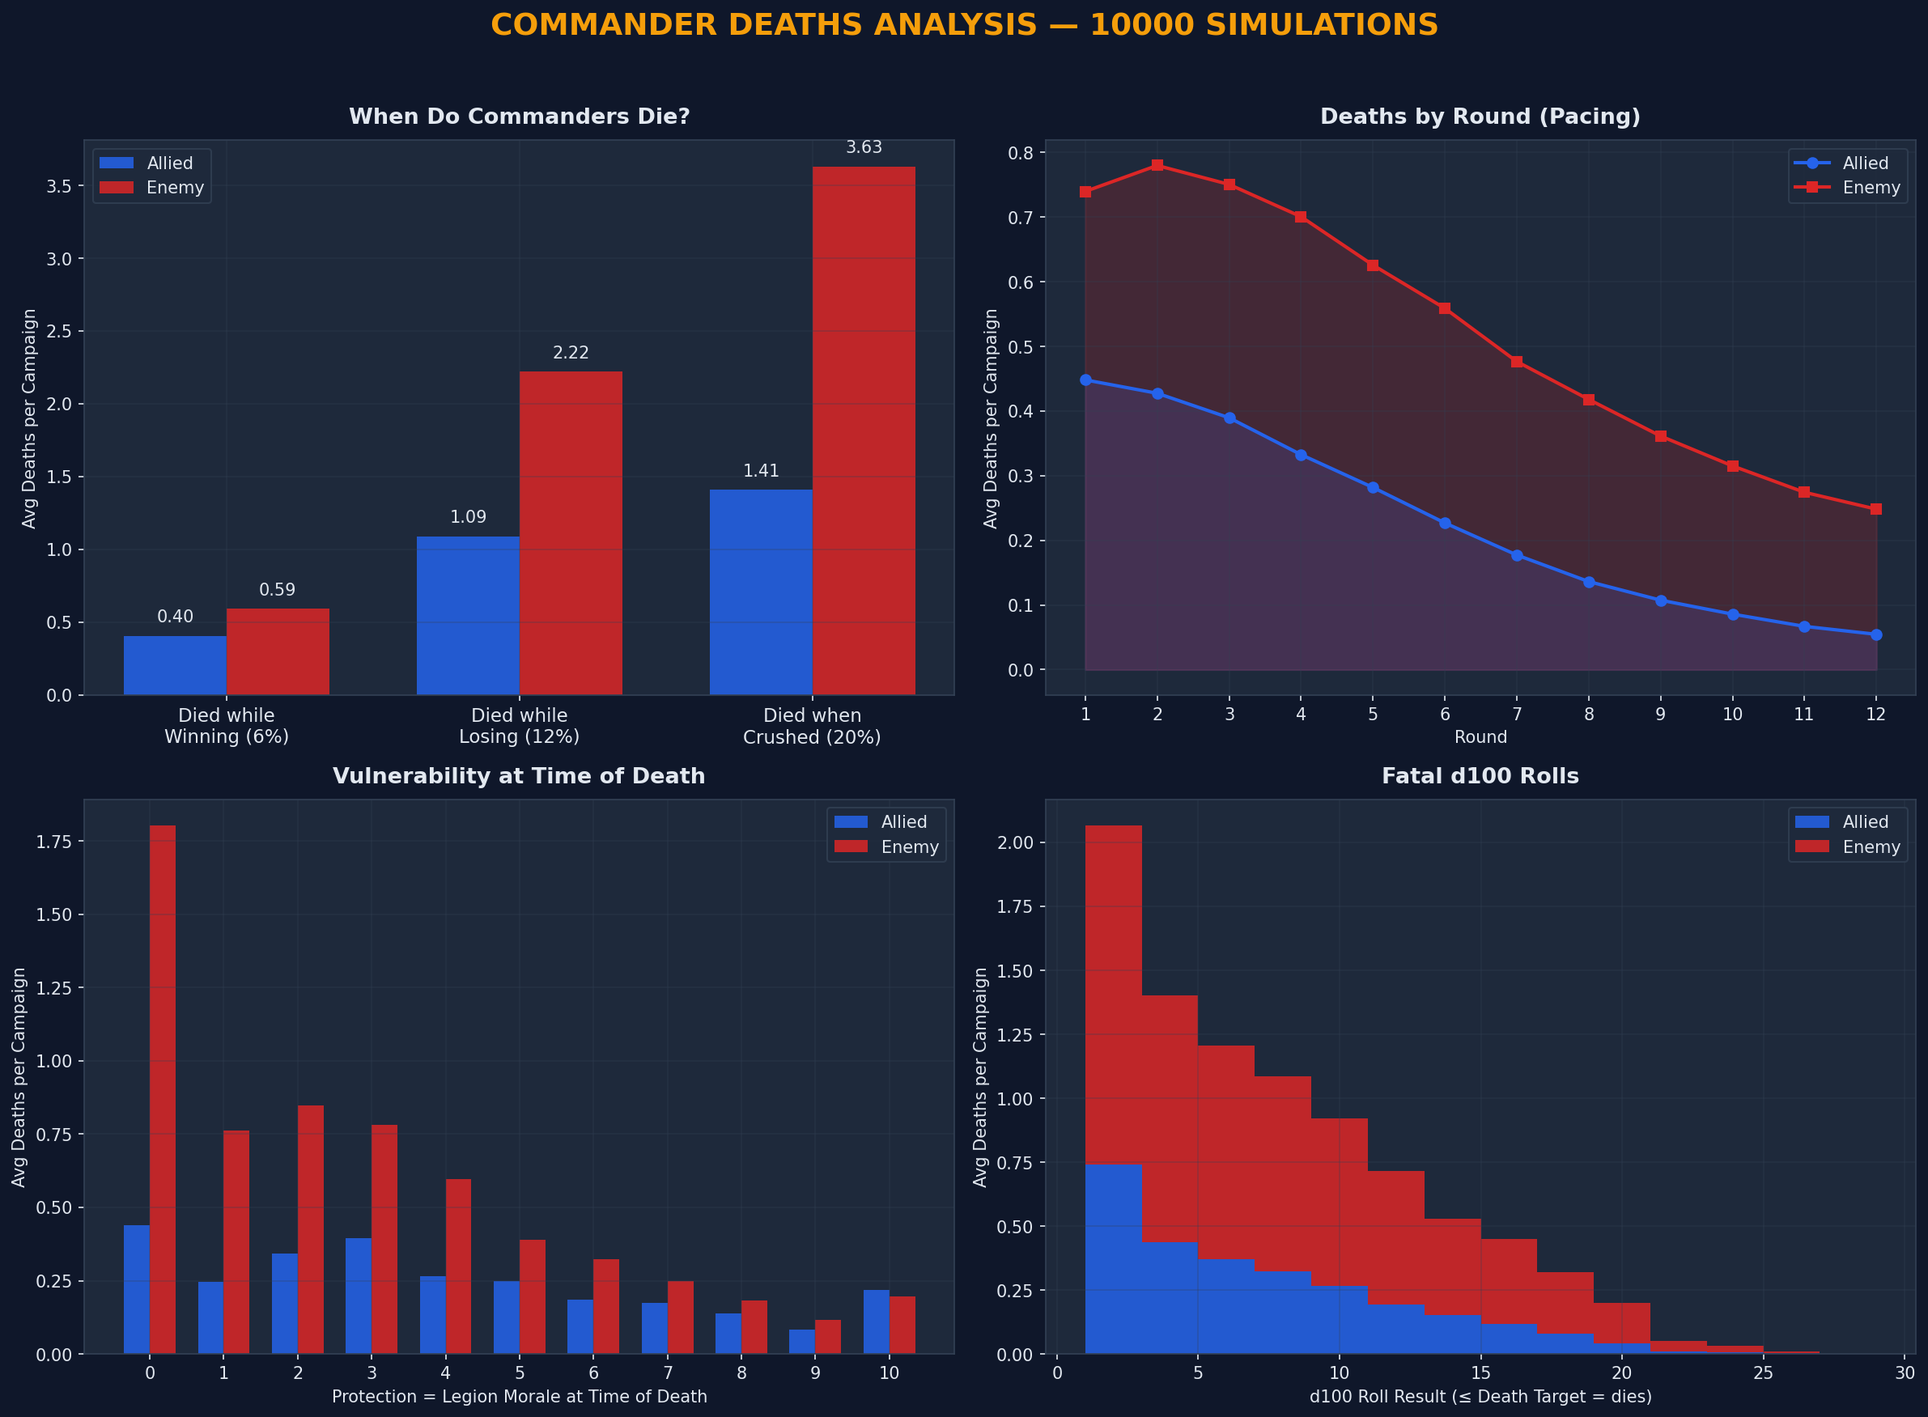
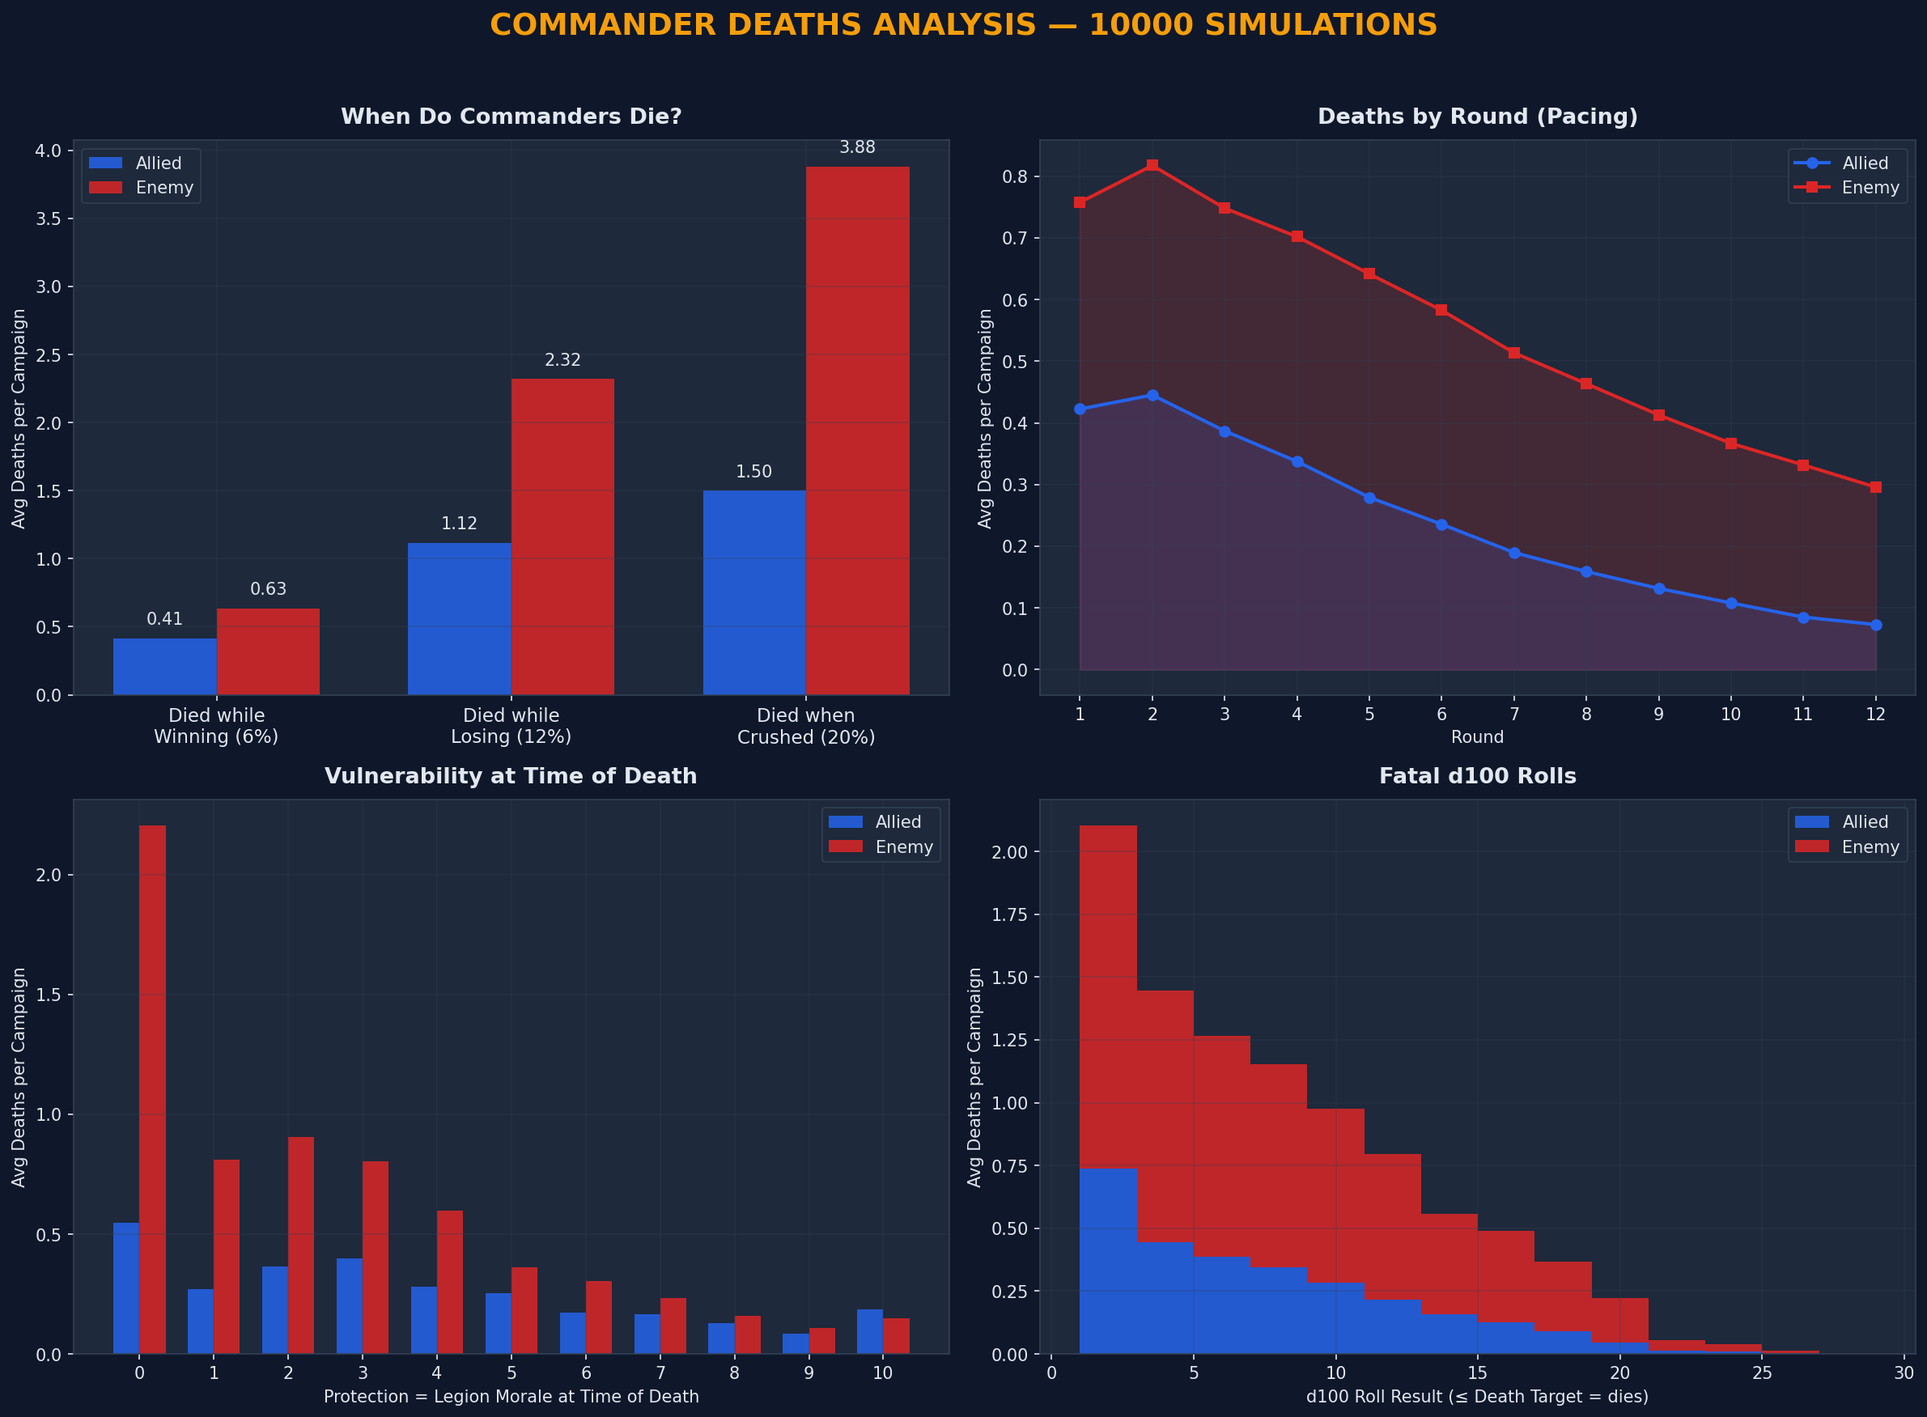
Update 1.0

diff --git a/battle.html b/battle.html
@@ -1200,8 +1200,8 @@
                                 <div class="tag-action"><span class="badge badge-passive">Passive</span></div>
                             </div>
                             <div class="tag-effect">
-                                This legion gains <strong>+2 to Hope checks</strong>. Allied legions in adjacent
-                                sections gain <strong>+1 to Hope checks</strong>.
+                                This legion gains <strong>+3 to Hope checks</strong>. Allied legions in adjacent
+                                sections gain <strong>+2 to Hope checks</strong>.
                             </div>
                         </div>
 
@@ -1558,9 +1558,9 @@ flowchart LR
     M["🧠 PHASE 1\nThe Maneuver\n1d20 + Wit\nWinner chooses 1 benefit"]
     C["🔥 PHASE 2\nThe Charge\n1d20 + Morale\nWinner gains +1 to Clash"]
     CL["⚔ PHASE 3\nThe Clash\n1d20 + Vitality"]
-    V["🏆 TALLY\nBattle Score\nSum of differentials\nPositive = you win\nTie - Vitality sudden death"]
+    V["🏆 TALLY\nBattle Score\nSum of differentials\nPositive = you win\nTie - Clash winner wins\nor Vitality sudden death"]
     M -->|"+1d4 Charge bonus\nor other benefit"| C
-    C -->|"+1 to Clash roll\nfor Charge winner"| CL
+    C -->|"+1d2 to Clash roll\nfor Charge winner"| CL
     CL --> V
     style M fill:#1a2a3a,stroke:#3a7ab5,color:#90c0e8
     style C fill:#3a2a10,stroke:#b58030,color:#e8c070
@@ -1582,7 +1582,10 @@ flowchart LR
                         </div>
                         <div class="benefit-card">
                             <div class="name">Defensive Footing</div>
-                            <div class="desc"><strong>+1d2</strong> to your Clash roll (Phase 3)</div>
+                            <div class="desc">
+                                <strong>+1d4</strong> to your Clash roll (Phase 3) and <strong>+2</strong> to this
+                                legion's Recovery check
+                            </div>
                         </div>
                         <div class="benefit-card">
                             <div class="name">Disrupted Formation</div>
@@ -1600,7 +1603,7 @@ flowchart LR
                     <h3>Phase 2: The Charge (Morale)</h3>
                     <p>
                         Both sides roll 1d20 + Morale. The differential is added to the Battle Score. The Charge winner
-                        (positive differential) gains +1 to their Clash roll. If tied, no cascade bonus.
+                        (positive differential) gains +1d2 to their Clash roll. If tied, no cascade bonus.
                     </p>
 
                     <h3>Phase 3: The Clash (Vitality)</h3>
@@ -1615,9 +1618,10 @@ flowchart LR
 
                     <div class="callout callout-gold">
                         <strong>Tie-Breaker</strong>
-                        If the Battle Score is exactly 0, a
-                        <strong>sudden-death contested Vitality roll</strong> breaks the tie. If that also ties, reroll
-                        until one side wins.
+                        If the Battle Score is exactly 0, the <strong>winner of the Clash phase</strong> wins the
+                        battle. If the Clash was also tied, a
+                        <strong>sudden-death contested Vitality roll</strong> breaks the tie — reroll until one side
+                        wins.
                     </div>
 
                     <h3>Fortification</h3>
@@ -1728,10 +1732,7 @@ flowchart TD
                                     🔹 <strong>Tactical Insight</strong> — +1d2 to Wit rolls next round
                                 </div>
                                 <div style="font-size: 0.82rem; color: var(--text-secondary)">
-                                    🔹 <strong>Enemy Shaken</strong> — Opposing legion −1 Morale
-                                </div>
-                                <div style="font-size: 0.82rem; color: var(--text-secondary)">
-                                    🔹 <strong>Quick Fortify</strong> — Immediately fortify held section
+                                    🔹 <strong>Enemy Shaken</strong> — Opposing legion −1d2 Morale
                                 </div>
                             </div>
                         </div>

diff --git a/styles/dashboard-sections.css b/styles/dashboard-sections.css
@@ -190,6 +190,21 @@
     border-radius: 3px;
     margin-top: 3px;
 }
+.mytros-dashboard .commander-tags-row {
+    display: flex;
+    flex-wrap: wrap;
+    gap: 3px;
+    margin-top: 3px;
+}
+.mytros-dashboard .commander-tag-pill {
+    font-size: 0.72em;
+    color: var(--mytros-text-muted);
+    background: var(--mytros-chip-bg);
+    border: 1px solid var(--mytros-btn-secondary-border);
+    padding: 1px 5px;
+    border-radius: 3px;
+    white-space: nowrap;
+}
 .mytros-dashboard .empty-state {
     font-style: italic;
     color: var(--mytros-text-muted-alt);

diff --git a/sim/combat.py b/sim/combat.py
@@ -2,7 +2,6 @@ import random
 
 from .battle_log import BattleLog, PhaseResult
 from .config import (
-    CHARGE_WIN_CLASH_BONUS,
     MANEUVER_BENEFITS,
 )
 from .dice import contested_roll
@@ -96,7 +95,7 @@ def simulate_battle(
             if "Flanking" in benefit[0]:
                 charge_bonus_a += roll_extra(4)
             elif "Defensive" in benefit[0]:
-                clash_bonus_a += roll_extra(2)
+                clash_bonus_a += roll_extra(4)
             elif "Disrupted" in benefit[0]:
                 charge_bonus_b -= 1
                 clash_bonus_b -= 1
@@ -106,7 +105,7 @@ def simulate_battle(
             if "Flanking" in benefit[0]:
                 charge_bonus_b += roll_extra(4)
             elif "Defensive" in benefit[0]:
-                clash_bonus_b += roll_extra(2)
+                clash_bonus_b += roll_extra(4)
             elif "Disrupted" in benefit[0]:
                 charge_bonus_a -= 1
                 clash_bonus_a -= 1
@@ -145,13 +144,13 @@ def simulate_battle(
     diff_chg = ta - tb
     battle_score += diff_chg
 
-    # Charge cascade: winner gets +1 to Clash; tie = no bonus
+    # Charge cascade: winner gets +1d2 to Clash; tie = no bonus
     if diff_chg > 0:
         winner_c = "a"
-        clash_bonus_a += CHARGE_WIN_CLASH_BONUS
+        clash_bonus_a += random.randint(1, 2)
     elif diff_chg < 0:
         winner_c = "b"
-        clash_bonus_b += CHARGE_WIN_CLASH_BONUS
+        clash_bonus_b += random.randint(1, 2)
     else:
         winner_c = "tie"
 
@@ -190,13 +189,20 @@ def simulate_battle(
         PhaseResult("Clash (Vitality)", ra, rb, ta, tb, n20a, n20b, n1a, n1b, winner_cl, diff_cl)
     )
 
-    # ── Tie-breaker: sudden-death contested Vitality if Battle Score == 0 ──
-    while battle_score == 0:
-        ra2, rb2, ta2, tb2, _, _, _, _ = contested_roll(la.vit_total, lb.vit_total)
-        if ta2 > tb2:
-            battle_score += 1
-        elif tb2 > ta2:
-            battle_score -= 1
+    # ── Tie-breaker: if Battle Score == 0,
+    # clash winner decides; if clash also tied, sudden-death Vitality ──
+    if battle_score == 0:
+        if diff_cl > 0:
+            battle_score = 1
+        elif diff_cl < 0:
+            battle_score = -1
+        else:
+            while battle_score == 0:
+                ra2, rb2, ta2, tb2, _, _, _, _ = contested_roll(la.vit_total, lb.vit_total)
+                if ta2 > tb2:
+                    battle_score += 1
+                elif tb2 > ta2:
+                    battle_score -= 1
 
     log.battle_score = battle_score
     log.winner = "a" if battle_score > 0 else "b"

diff --git a/sim/config.py b/sim/config.py
@@ -43,11 +43,11 @@ ENGINEER_PENALTY = -2  # Applied to all enemy battle rolls in fortified section
 MAGE_PENALTY = -1  # Applied to all enemy battle rolls
 HEADHUNTER_DEATH_BONUS = 5  # +5% added to enemy commander's death chance
 DIVINE_BLOOD_DEATH_REDUC = 5  # -5% subtracted from own base death chance
-CHARGE_WIN_CLASH_BONUS = 1  # Clash bonus for winning the Charge phase
+CHARGE_WIN_CLASH_BONUS = 2  # Clash bonus for winning the Charge phase (1d2)
 FANATIC_BONUS = 2  # Flat bonus to Charge and Clash (was advantage on both)
 MORALE_DIMINISHING_THRESHOLD = 7  # Morale gains reduced by 1 when at or above this
-RALLIER_OWN_HOPE_BONUS = 2  # Rallier: +2 to own Hope check
-RALLIER_ADJ_HOPE_BONUS = 1  # Rallier: +1 to adjacent allied legions' Hope check
+RALLIER_OWN_HOPE_BONUS = 3  # Rallier: +3 to own Hope check
+RALLIER_ADJ_HOPE_BONUS = 2  # Rallier: +2 to adjacent allied legions' Hope check
 
 # ── Civilian Death Toll ──
 # Rolled once per engagement per round, added to running total
@@ -74,7 +74,7 @@ RECON_MANEUVER_BONUS_TIER = 23  # Roll >= this → +1 to all allied Maneuver rol
 
 MANEUVER_BENEFITS = [
     ("Flanking Position", "+1d4 to Charge"),
-    ("Defensive Footing", "+1d2 to Clash"),
+    ("Defensive Footing", "+1d4 to own Clash, +2 to own Recovery"),
     ("Disrupted Formation", "-1 to enemy Charge and Clash"),
     ("Seized Initiative", "+1d2 extra injury to enemy if won"),
 ]
@@ -82,8 +82,7 @@ MANEUVER_BENEFITS = [
 SALVAGE_BENEFITS = [
     "Captured Supplies (-1 injury)",
     "Tactical Insight (+2 Wit next round)",
-    "Enemy Shaken (-1 enemy Morale)",
-    "Quick Fortify",
+    "Enemy Shaken (-1d2 enemy Morale)",
 ]
 
 STRATEGIC_OBJECTIVES = {

diff --git a/sim/simulator.py b/sim/simulator.py
@@ -192,6 +192,9 @@ def simulate_round(
 
         won_a = log.winner == "a"
         cdiff_a = log.battle_score  # positive = side A won by this margin
+        maneuver_winner = log.phases[0].winner if log.phases else "tie"
+        defensive_footing_a = maneuver_winner == "a" and "Defensive" in log.maneuver_benefit
+        defensive_footing_b = maneuver_winner == "b" and "Defensive" in log.maneuver_benefit
 
         # Cross-effects from opponent tags
         brutal_won_a = won_a and _has(la, "Brutal")
@@ -234,6 +237,7 @@ def simulate_round(
             fort_bonus=fort_a,
             pc_deployments=pcs_a,
             pool=pool_a,
+            defensive_footing=defensive_footing_a,
         )
 
         aftermath_b = run_aftermath(
@@ -248,6 +252,7 @@ def simulate_round(
             headhunter_death_penalty=hh_vs_b,
             fort_bonus=fort_b,
             pool=pool_e,
+            defensive_footing=defensive_footing_b,
         )
 
         if brutal_won_a and le.injuries >= 4 and not le.destroyed:
@@ -265,7 +270,7 @@ def simulate_round(
         ]:
             for b in benefits_list:
                 if "Shaken" in b:
-                    target.morale_mod -= 1
+                    target.morale_mod -= random.randint(1, 2)
 
         log.aftermath_a = aftermath_a
         log.aftermath_b = aftermath_b

diff --git a/sim/aftermath.py b/sim/aftermath.py
@@ -44,6 +44,7 @@ def run_aftermath(
     fort_bonus: int = 0,
     pc_deployments: list[PCDeployment] = None,
     pool: MiraclePool = None,
+    defensive_footing: bool = False,
 ) -> dict:
     results = {}
     vet = _has(legion, "Veteran")
@@ -64,6 +65,8 @@ def run_aftermath(
     adv_rec = _has(legion, "Medic")  # Medic: advantage on Recovery
     disadv_rec = disadv_recovery or _has(legion, "Fanatic")  # Fanatic: disadvantage
     rec_bonus = warden_recovery_bonus + fort_bonus + roll_pc_aft("recovery")
+    if defensive_footing:
+        rec_bonus += 2
     if _has(legion, "Ironclad"):
         rec_bonus += IRONCLAD_BONUS
 
@@ -236,5 +239,3 @@ def _apply_salvage(legion: Legion, benefit: str):
         legion.injuries = max(0, legion.injuries - 1)
     elif "Insight" in benefit:
         legion.wit_temp_bonus += 2
-    elif "Fortify" in benefit and legion.section != -1:
-        legion.fortified_section = legion.section

diff --git a/system.md b/system.md
@@ -63,7 +63,7 @@ A newly assigned replacement commander arrives with their own tags, which take e
 | **Tactician**        | Advantage on Maneuver rolls.                                                                                                                                                                                                             |
 | **Headhunter**       | When this legion engages an enemy, the enemy suffers Disadvantage on their Clash roll. Furthermore, if the enemy commander must make a Commander Casualty Check, add 5% to their Base Death Chance.                                      |
 | **Engineer**         | Enemy legions engaging this legion in fortified sections suffer −2 to all battle rolls (Maneuver, Charge, Clash)                                                                                                                         |
-| **Rallier**          | This legion gains \+2 to Hope checks. Allied legions in adjacent sections gain \+1 to Hope checks.                                                                                                                                       |
+| **Rallier**          | This legion gains \+3 to Hope checks. Allied legions in adjacent sections gain \+2 to Hope checks.                                                                                                                                       |
 | **Terrorizer**       | Enemy legions that fight this legion suffer Disadvantage on their Hope checks after the battle.                                                                                                                                          |
 | **Fanatic**          | This legion attacks with reckless fury, gaining +2 to both Charge and Clash rolls. However, due to their disregard for their own survival, they suffer Disadvantage on their Recovery check after every battle.                          |
 | **Zealot**           | While this legion’s current Morale is 7 or higher, it gains \+2 to all three battle rolls (Maneuver, Charge, Clash).                                                                                                                     |
@@ -167,16 +167,16 @@ When opposing legions meet in the same section, battle occurs. Each battle has t
 
 Both sides roll 1d20 + Wit. The differential (your roll minus enemy roll) is added to the Battle Score. If your differential is positive, you win the phase and choose one benefit for the rest of this battle. If tied (differential is 0), no benefit is granted.
 
-| Maneuver Benefit    | Effect                                                                              |
-| :------------------ | :---------------------------------------------------------------------------------- |
-| Flanking Position   | \+1d4 to your Charge roll (Phase 2).                                                |
-| Defensive Footing   | \+1d2 to your Clash roll (Phase 3).                                                 |
-| Disrupted Formation | Enemy suffers −1 to both Charge and Clash rolls.                                    |
-| Seized Initiative   | If you win the overall battle, the enemy takes \+1d2 extra injury in the aftermath. |
+| Maneuver Benefit    | Effect                                                                                               |
+| :------------------ | :--------------------------------------------------------------------------------------------------- |
+| Flanking Position   | \+1d4 to your Charge roll (Phase 2).                                                                 |
+| Defensive Footing   | \+1d4 to your Clash roll (Phase 3). This legion also gains \+2 to their Recovery check in Aftermath. |
+| Disrupted Formation | Enemy suffers −1 to both Charge and Clash rolls.                                                     |
+| Seized Initiative   | If you win the overall battle, the enemy takes \+1d2 extra injury in the aftermath.                  |
 
 ## **Phase 2: The Charge (Morale)**
 
-Both sides roll 1d20 \+ Morale. The shock of first contact. The differential is added to the Battle Score. The Charge winner (positive differential) gains \+1 to their Clash roll. If tied, no cascade bonus.
+Both sides roll 1d20 \+ Morale. The shock of first contact. The differential is added to the Battle Score. The Charge winner (positive differential) gains \+1d2 to their Clash roll. If tied, no cascade bonus.
 
 ## **Phase 3: The Clash (Vitality)**
 
@@ -186,7 +186,7 @@ Both sides roll 1d20 \+ Vitality. The grinding melee that decides the battle. Th
 
 The Battle Score is the sum of all three phase differentials. Positive means your side wins; negative means the enemy wins. The magnitude determines the severity of aftermath consequences (see Commander Casualty Check).
 
-**Tie-breaker:** If the Battle Score is exactly 0, a sudden-death contested Vitality roll breaks the tie. If that also ties, reroll until one side wins.
+**Tie-breaker:** If the Battle Score is exactly 0, the winner of the Clash phase wins the battle. If the Clash was also tied, a sudden-death contested Vitality roll breaks the tie — reroll until one side wins.
 
 # **Aftermath**
 
@@ -220,12 +220,11 @@ _Diminishing Returns:_ When a legion's current Morale is 7 or higher, reduce all
 
 **Roll:** Both winner and loser roll 1d20 \+ Wit vs DC 12\. On success, choose one benefit. On a natural 20, choose two.
 
-| Salvage Benefit   | Effect                                                                  |
-| :---------------- | :---------------------------------------------------------------------- |
-| Captured Supplies | Remove 1 injury from this legion.                                       |
-| Tactical Insight  | \+1d2 to this legion’s Wit rolls next round.                            |
-| Enemy Shaken      | The opposing legion suffers −1 Morale.                                  |
-| Quick Fortify     | Immediately fortify the section you hold (normally takes a full round). |
+| Salvage Benefit   | Effect                                       |
+| :---------------- | :------------------------------------------- |
+| Captured Supplies | Remove 1 injury from this legion.            |
+| Tactical Insight  | \+1d2 to this legion’s Wit rolls next round. |
+| Enemy Shaken      | The opposing legion suffers −1d2 Morale.     |
 
 ## **Commander Casualty Check**
 
